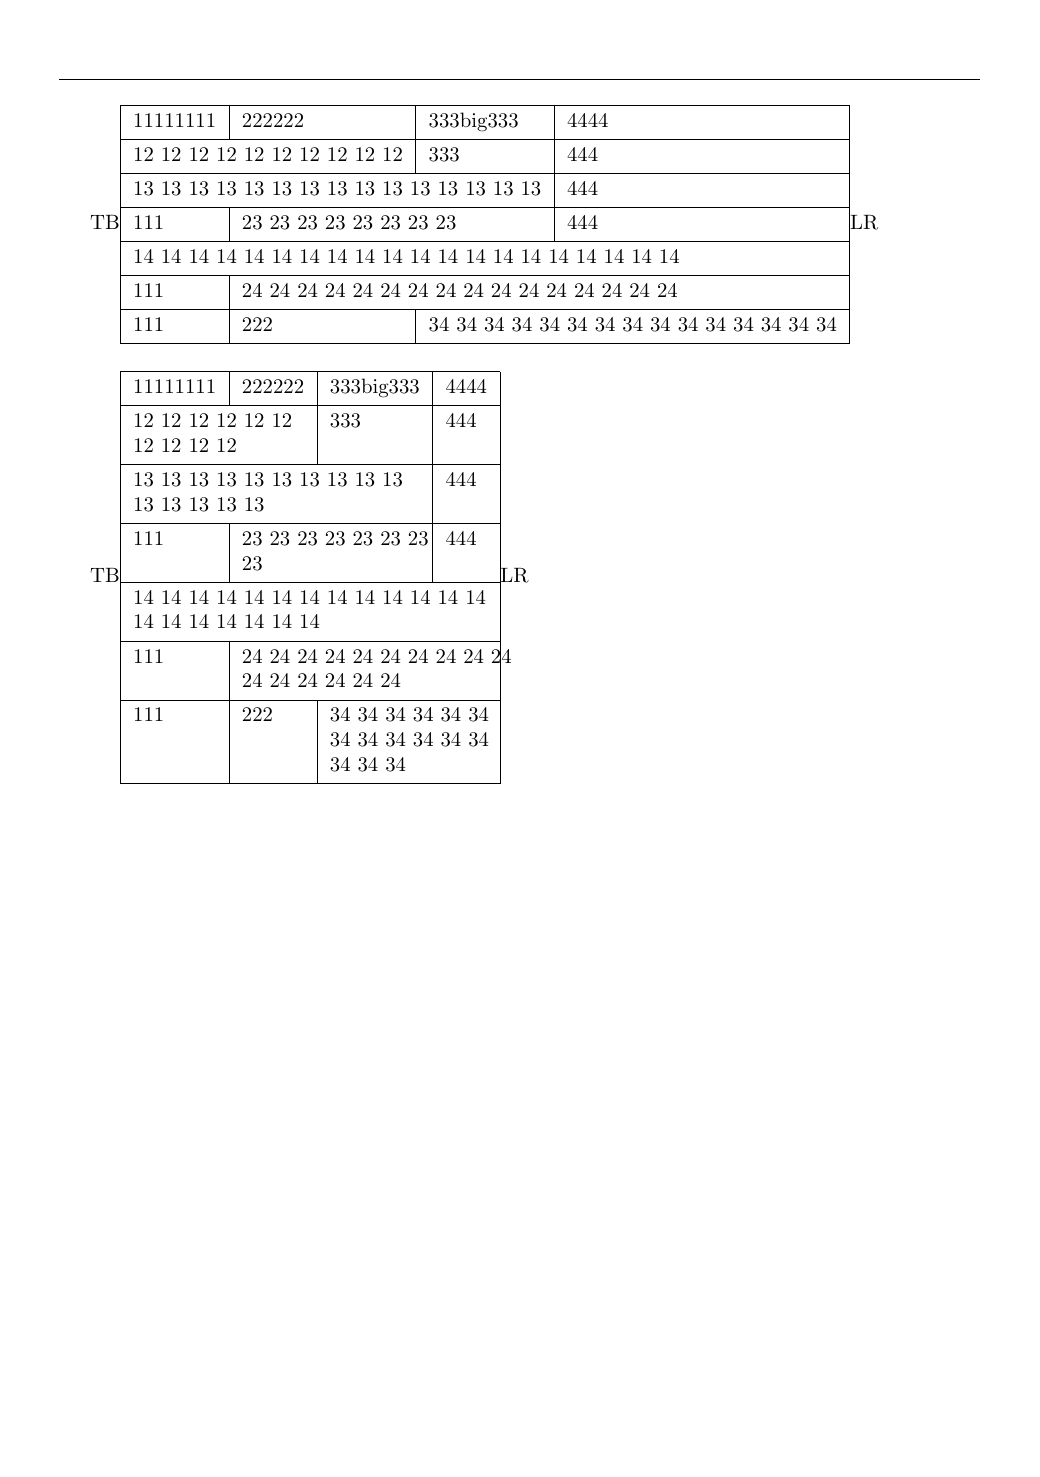
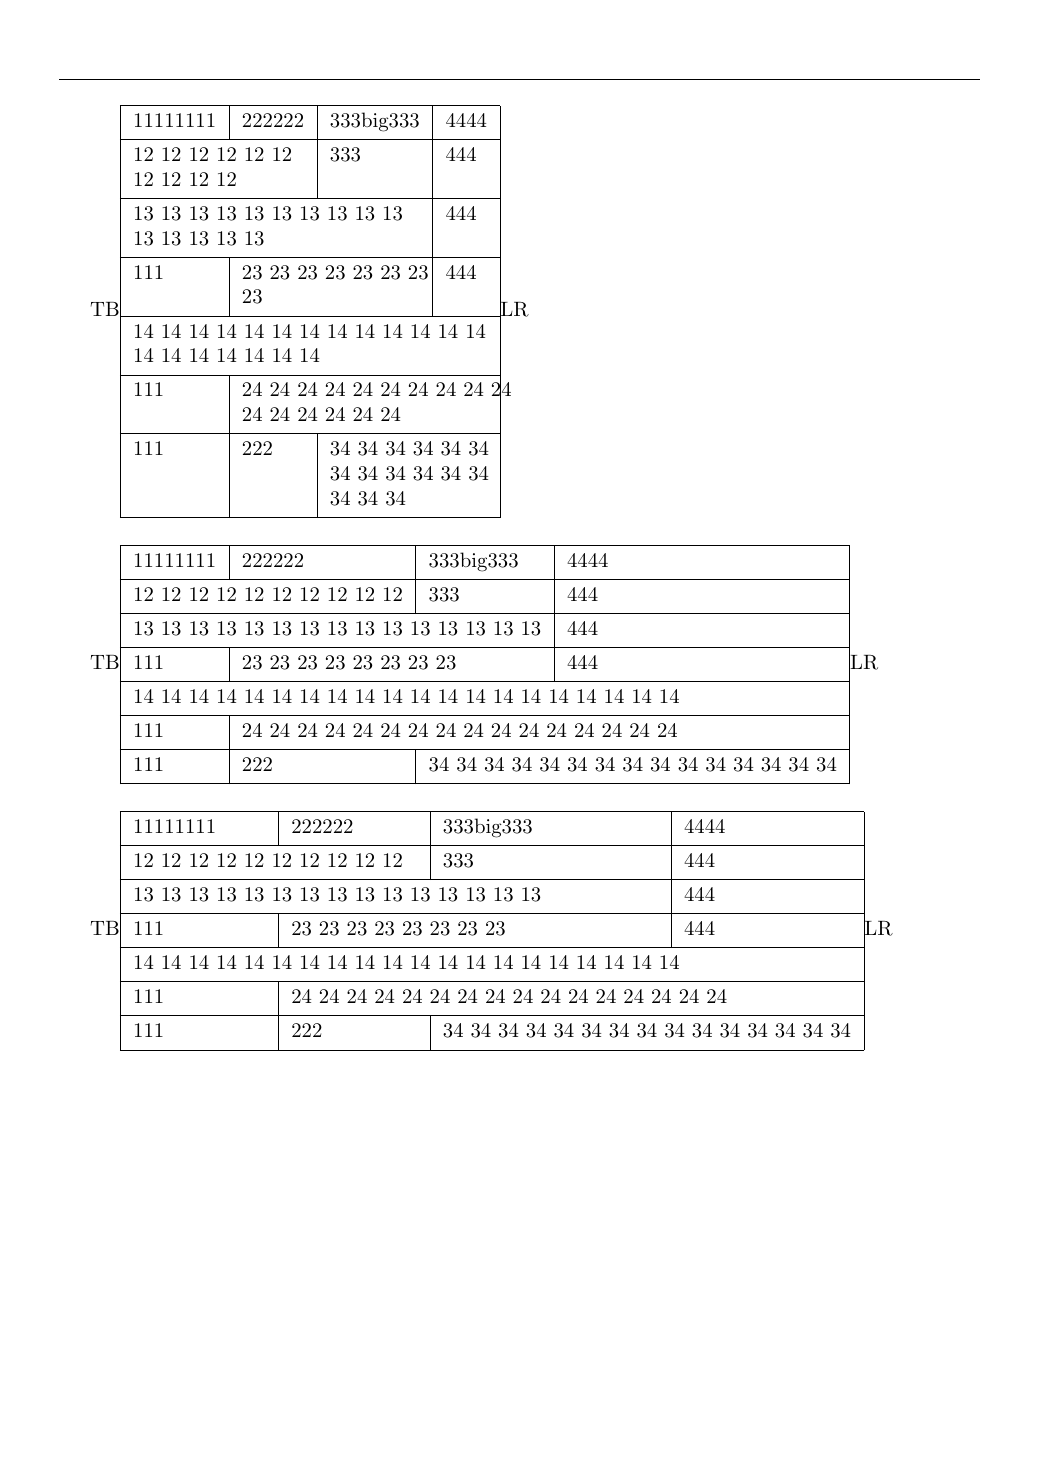
update test files for issue #3

Changed region(s): [[0.0923, 0.0623, 0.8308, 0.7163], [0.8308, 0.6229, 0.8615, 0.654], [0.8, 0.436, 0.8308, 0.4672]]

diff --git a/testfiles/cell-006.tex b/testfiles/cell-006.tex
@@ -15,6 +15,28 @@
 \START
 \hrule\bigskip
 
+\BEGINTEST{multicolumn: compute span widths from column widths}
+TB\begin{tblr}{hspan=minimal,colspec={|l|l|l|Q[t,l]|l|}}
+\hline
+  11111111 & 222222 & 333big333 & 4444 \\
+\hline
+  \SetCell[c=2]{}12 12 12 12 12 12 12 12 12 12 & 222 & 333 & 444 \\
+\hline
+  \SetCell[c=3]{}13 13 13 13 13 13 13 13 13 13 13 13 13 13 13 & 222 & 333 & 444 \\
+\hline
+  111 & \SetCell[c=2]{}23 23 23 23 23 23 23 23 & 333 & 444 \\
+\hline
+  \SetCell[c=4]{}14 14 14 14 14 14 14 14 14 14 14 14 14 14 14 14 14 14 14 14 & 222 & 333 & 444 \\
+\hline
+  111 & \SetCell[c=3]{}24 24 24 24 24 24 24 24 24 24 24 24 24 24 24 24 & 333 & 444 \\
+\hline
+  111 & 222 & \SetCell[c=2]{}34 34 34 34 34 34 34 34 34 34 34 34 34 34 34 & 444 \\
+\hline
+\end{tblr}LR
+\ENDTEST
+
+\bigskip
+
 \BEGINTEST{multicolumn: compute column widths from span widths}
 TB\begin{tblr}{|l|l|l|Q[t,l]|l|}
 \hline
@@ -37,8 +59,8 @@ TB\begin{tblr}{|l|l|l|Q[t,l]|l|}
 
 \bigskip
 
-\BEGINTEST{multicolumn: compute span widths from column widths}
-TB\begin{tblr}{hspan=minimal,colspec={|l|l|l|Q[t,l]|l|}}
+\BEGINTEST{multicolumn: distribute span sizes evenly to columns}
+TB\begin{tblr}{colspec={|l|l|l|Q[t,l]|l|}, hspan=even}
 \hline
   11111111 & 222222 & 333big333 & 4444 \\
 \hline

diff --git a/testfiles/cell-008.tex b/testfiles/cell-008.tex
@@ -67,4 +67,29 @@
 \end{tblr}
 \ENDTEST
 
+\bigskip
+
+\BEGINTEST{multirow: modern with vspan=even}
+\begin{tblr}{colspec={|h{4em}|f{4em}|m{4em}|m{4em}|f{4em}|h{4em}|},vspan=even}
+\hline
+  \SetCell[r=2]{f}f 12 12 12 12 12 12 12 12 12 12 12 12 12 12 12 12 12 &
+  \SetCell{h}row head row head & middle &
+  \SetCell[r=3]{h}h 13 13 & row foot row foot &
+  \SetCell[r=4]{h}h 14 14 \\
+\cline{2-3}\cline{5-5}
+  12 12 12 12 12 &
+  \SetCell[r=2]{h}h 23 23 &
+  \SetCell{f}row foot row foot & &
+  \SetCell[r=3]{f}f 24 24 & \\
+\cline{1-1}\cline{3-3}
+  row head row head & &
+  \SetCell[r=2]{m}m 34 34 34 34 34 34 34 34 34 34 34 34 34 34 34 34 34 & & & \\
+\cline{1-2}\cline{4-4}
+  row head row head &
+  \SetCell{f}row foot row foot & &
+  \SetCell{m}middle & & \\
+\hline
+\end{tblr}
+\ENDTEST
+
 \end{document}
